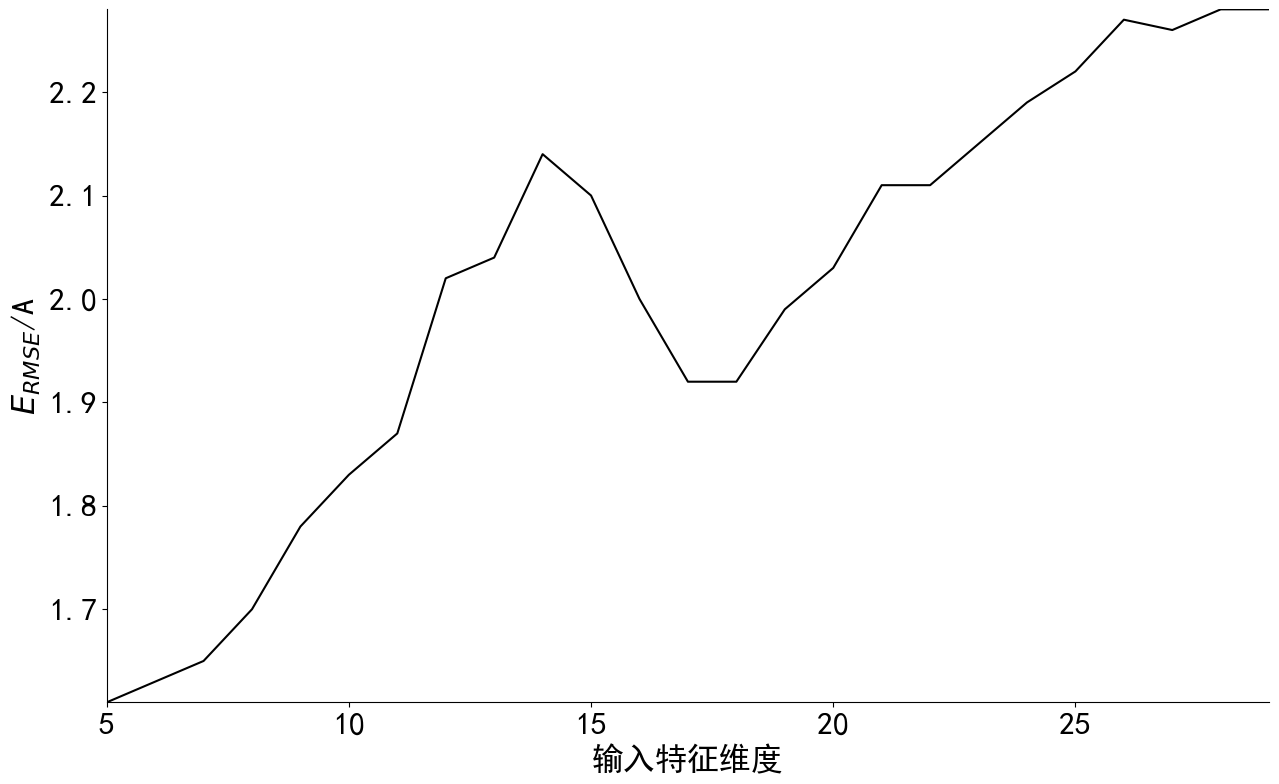
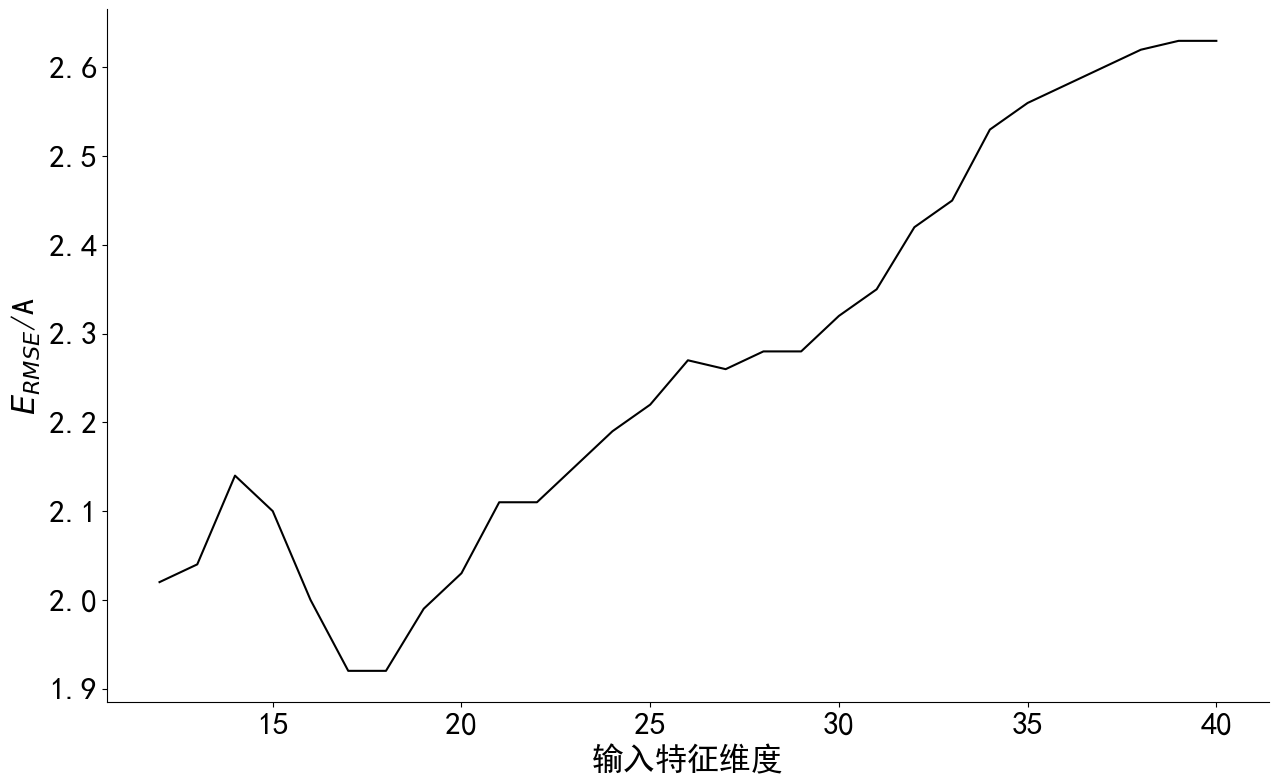
add picture and add algorithm

diff --git a/missingData.py b/missingData.py
@@ -87,7 +87,6 @@ def get_k_fill():
     data_complete = create_dataframe(complete_file, 'I')
 
     lost_file = r"file\2019.9.9-9.19(lost).csv"
-    data_lost = create_dataframe(lost_file, 'I')
 
     look_back = 13  # 14
     missing_ratio = [0.03, 0.06, 0.1, 0.2, 0.3]
@@ -97,24 +96,19 @@ def get_k_fill():
     data_test = data_complete.iloc[5500:6400]
     train_x, train_y = create_dataset(data_train.values, look_back)
 
-    df_mre = pd.DataFrame(index=range(3, 21))
-    df_rmse = pd.DataFrame(index=range(3, 21))
     rmse_all = []
     mre_all = []
     k_list = list(range(4, 21))
     for ratio in missing_ratio:
         rmse_list = []
         mre_list = []
-        data_fill_plt = None
         for n_neighbors in k_list:
             data_cut, r = create_miss_data(data_test, ratio, 10)
-            # print(r)
 
             # 数据分割，得到数据缺失部分
             # data_cut = data_lost.iloc[5500:6400]
             values = data_cut.values.flatten()
             lost_index = get_lost_index(data_cut)
-            # print(lost_index)
 
             # 利用自己的knn
             knn2 = defKnn.KNNClassifier(n_neighbors)
@@ -129,8 +123,6 @@ def get_k_fill():
                     sum += 1
                     look_back_x = np.array(data_fill.values[j-look_back:j])
                     look_back_x = look_back_x.reshape(1, -1)
-                    # print(look_back_x)
-                    # val = knn.predict(look_back_x)
                     val = knn2.predict(look_back_x)
                     data_fill.loc[j:j+1, 'y'] = val
                     mre += abs((val-data_test.iloc[j]['y'])/data_test.iloc[j]['y'])
@@ -138,65 +130,10 @@ def get_k_fill():
 
             mre_list.append(float(mre / sum))
             rmse_list.append(float(math.sqrt(rmse/sum)))
-            # k_list.append(n_neighbors)
-            if n_neighbors == 6:
-                data_fill_plt = data_fill.copy()
         if len(rmse_all) == 0:
             rmse_all = rmse_list
         else:
             rmse_all = [i + j for i, j in zip(rmse_all, rmse_list)]
-        # plt.figure(0, figsize=(18, 9))
-        # plt.rcParams['font.sans-serif'] = ['SimHei']  # 显示中文标签
-        # plt.rcParams['axes.spines.top'] = False  # 去掉顶部轴，必须放在plot之前
-        # plt.rcParams['axes.spines.right'] = False  # 去掉右部轴
-        # plt.plot([(str(d)).replace('T', ' ')[5:16] for d in list(data_test.index.values)], data_test['y'].values, "black", linewidth=4, linestyle='-', label='真实值')
-        # plt.plot([(str(d)).replace('T', ' ')[5:16] for d in list(data_fill_plt.index.values)], data_fill_plt['y'].values, "black", linewidth=2, linestyle='--', label='填补值')
-        # plt.gca().xaxis.set_major_locator(ticker.MultipleLocator(200))  # 设置刻度密度
-        # plt.tick_params(labelsize=60)
-        # plt.autoscale(enable=True, axis='x', tight=True)  # 去掉坐标边缘的留白
-        # plt.autoscale(enable=True, axis='y', tight=True)  # 去掉坐标边缘的留白
-        # ax = plt.gca()
-        # ax.spines['bottom'].set_linewidth(4)   # 设置底部坐标轴的粗细
-        # ax.spines['left'].set_linewidth(4)   # 设置左边坐标轴的粗细
-        # ax.tick_params(width=4)  # 设置刻度线的粗细（竖着的）
-        # plt.xticks(rotation=30)
-        # plt.xlabel("时刻", size=80)
-        # plt.ylabel("真实值/A,填补值/A", size=80)
-        # plt.legend(loc='upper center', prop={'size': 60}, bbox_to_anchor=(0.5, 1), ncol=2, frameon=False)  # ncol=n设为n列
-        # plt.savefig(r'D:\SJTU\机器学习\小论文\数据补全\图\自动化设备-图\fill'+'(ratio='+str(ratio)+').png',
-        #             format='png',
-        #             bbox_inches='tight',
-        #             transparent=True)
-        # plt.show()
-        # plt.close()
-
-        # plt.figure(1, figsize=(12, 6))
-        # plt.plot(data_cut.index, data_cut['y'], label='miss')
-        # plt.figure(2, figsize=(12, 6))
-        # plt.plot(data_test.index, data_test['y'], label='real')
-        # plt.legend()
-        # plt.show()
-
-        # print(mre_list)
-        # df_mre['ratio=' + str(ratio)] = mre_list
-        # df_rmse['ratio=' + str(ratio)] = rmse_list
-        # df_mre.to_csv(r'D:\SJTU\机器学习\小论文\数据补全\data_MRE.csv')
-        # df_rmse.to_csv(r'D:\SJTU\机器学习\小论文\数据补全\data_RMSE.csv')
-        #
-        # plt.figure(0, figsize=(16, 8))
-        # plt.rcParams['axes.spines.top'] = False  # 去掉顶部轴，必须放在plot之前
-        # plt.rcParams['axes.spines.right'] = False  # 去掉右部轴
-        # plt.tick_params(labelsize=23)
-        # plt.plot(np.array(k_list).astype(dtype=np.str), mre_list)
-        # plt.xlabel("K", size=23)
-        # plt.ylabel("MRE", size=23)
-        # # plt.legend()
-        # plt.savefig(r'D:\SJTU\机器学习\小论文\数据补全\图\缺失率='+str(ratio)+'_MRE.png',
-        #             format='png',
-        #             bbox_inches='tight',
-        #             transparent=True)
-        # plt.close()
-        # print('缺失率='+str(ratio)+'_MRE.png 已完成')
 
         #  以下为RMSE的图形展示
         plt.figure(figsize=(15, 9))
@@ -250,20 +187,16 @@ def get_lookback_fill():
     data_train = data_complete.iloc[:5500]
     data_test = data_complete.iloc[5500:6400]
 
-    df_mre = pd.DataFrame(index=range(3, 21))
-    df_rmse = pd.DataFrame(index=range(3, 21))
-    look_back_list = list(range(10, 45))
+    look_back_list = list(range(12, 41))
+    rmse_all = []
 
     for ratio in missing_ratio:
         rmse_list = []
         mre_list = []
-        k_list = []
-        data_fill_plt = None
         # 利用自己的knn
         for look_back in look_back_list:
             train_x, train_y = create_dataset(data_train.values, look_back)
             data_cut, r = create_miss_data(data_test, ratio, 10)
-            # print(r)
 
             # 数据分割，得到数据缺失部分
             # data_cut = data_lost.iloc[5500:6400]
@@ -283,8 +216,6 @@ def get_lookback_fill():
                     sum += 1
                     look_back_x = np.array(data_fill.values[j-look_back:j])
                     look_back_x = look_back_x.reshape(1, -1)
-                    # print(look_back_x)
-                    # val = knn.predict(look_back_x)
                     val = knn2.predict(look_back_x)
                     data_fill.loc[j:j+1, 'y'] = val
                     mre += abs((val-data_test.iloc[j]['y'])/data_test.iloc[j]['y'])
@@ -292,27 +223,17 @@ def get_lookback_fill():
 
             mre_list.append(float('%.2f' % (mre / sum)))
             rmse_list.append(float('%.2f' % math.sqrt(rmse/sum)))
-            data_fill_plt = data_fill.copy()
+
+        if len(rmse_all) == 0:
+            rmse_all = rmse_list
+        else:
+            rmse_all = [i + j for i, j in zip(rmse_all, rmse_list)]
 
         plt.figure(figsize=(15, 9))
         plt.plot(np.array(look_back_list), rmse_list, 'black')
+        plt.tick_params(labelsize=23)
         plt.xlabel("输入特征维度", size=23)
         plt.ylabel('${E_{RMSE}}$/A', size=23)
-        # plt.ylim(5.17, 5.19)  # 缺失率=0.03
-        # plt.ylim(1.98, 2.30)  # 缺失率=0.06
-        # plt.ylim(2.15, 2.30)  # 缺失率=0.1
-        # plt.ylim(5.17, 5.19)  # 缺失率=0.3
-        # plt.xticks(range(2, 20, 3))
-        ax = plt.gca()
-        # ax为两条坐标轴的实例
-        # ax.spines['bottom'].set_linewidth(2)   # 设置底部坐标轴的粗细
-        # ax.spines['left'].set_linewidth(2)   # 设置左边坐标轴的粗细
-        # ax.xaxis.set_major_locator(MultipleLocator(3))
-        # ax.yaxis.set_major_locator(MultipleLocator(0.05))  # 缺失率=0.03/0.1
-        # ax.yaxis.set_major_locator(MultipleLocator(0.1))  # 缺失率=0.06
-        # ax.yaxis.set_major_locator(MultipleLocator(0.25))  # 缺失率=0.3
-        # plt.show()
-        # fig = plt.gcf()
         plt.savefig(r'picture\(输入维度)缺失率='+str(ratio)+'_RMSE.png',
                     format='png',
                     bbox_inches='tight',
@@ -320,6 +241,15 @@ def get_lookback_fill():
         # plt.show()
         # plt.close()
         print('(输入维度)缺失率=' + str(ratio) + '_RMSE.png 已完成')
+    plt.figure(figsize=(15, 9))
+    plt.tick_params(labelsize=23)
+    plt.plot(np.array(look_back_list).astype(dtype=np.str), rmse_all, 'black')
+    plt.xlabel("K值", size=23)
+    plt.ylabel('${E_{RMSE}}$/A', size=23)
+    plt.savefig(r'picture\(输入维度)缺失率汇总_RMSE.png',
+                format='png',
+                bbox_inches='tight',
+                transparent=True)
 
 
 def get_value_fill():
@@ -329,7 +259,7 @@ def get_value_fill():
     lost_file = r"file\2019.9.9-9.19(lost).csv"
     data_lost = create_dataframe(lost_file, 'I')
 
-    look_back = 13  # 14
+    look_back = 20  # 14
     missing_ratio = [0.03, 0.06, 0.1, 0.2, 0.3]
     # missing_ratio = [0.03]
     # 分割训练数据
@@ -337,19 +267,15 @@ def get_value_fill():
     data_test = data_complete.iloc[5500:6400]
     train_x, train_y = create_dataset(data_train.values, look_back)
 
-    df_mre = pd.DataFrame(index=range(3, 21))
-    df_rmse = pd.DataFrame(index=range(3, 21))
-    value_list = list(np.arange(0.15, 0.6, 0.05))
+    rmse_all = []
+    value_list = list(np.arange(0.15, 0.61, 0.01))
 
     for ratio in missing_ratio:
         rmse_list = []
         mre_list = []
-        k_list = []
-        data_fill_plt = None
         # 利用自己的knn
         for value in value_list:
             data_cut, r = create_miss_data(data_test, ratio, 10)
-            # print(r)
 
             # 数据分割，得到数据缺失部分
             # data_cut = data_lost.iloc[5500:6400]
@@ -369,8 +295,6 @@ def get_value_fill():
                     sum += 1
                     look_back_x = np.array(data_fill.values[j-look_back:j])
                     look_back_x = look_back_x.reshape(1, -1)
-                    # print(look_back_x)
-                    # val = knn.predict(look_back_x)
                     val = knn2.predict(look_back_x)
                     data_fill.loc[j:j+1, 'y'] = val
                     mre += abs((val-data_test.iloc[j]['y'])/data_test.iloc[j]['y'])
@@ -378,7 +302,11 @@ def get_value_fill():
 
             mre_list.append(float('%.2f' % (mre / sum)))
             rmse_list.append(float('%.2f' % math.sqrt(rmse/sum)))
-            data_fill_plt = data_fill.copy()
+
+        if len(rmse_all) == 0:
+            rmse_all = rmse_list
+        else:
+            rmse_all = [i + j for i, j in zip(rmse_all, rmse_list)]
 
         plt.figure(figsize=(15, 9))
         plt.rcParams['font.sans-serif'] = ['SimHei']  # 显示中文标签
@@ -390,21 +318,7 @@ def get_value_fill():
         plt.plot(np.array(value_list), rmse_list, 'black')
         plt.xlabel("阈值", size=23)
         plt.ylabel('${E_{RMSE}}$/A', size=23)
-        # plt.ylim(5.17, 5.19)  # 缺失率=0.03
-        # plt.ylim(1.98, 2.30)  # 缺失率=0.06
-        # plt.ylim(2.15, 2.30)  # 缺失率=0.1
-        # plt.ylim(5.17, 5.19)  # 缺失率=0.3
-        # plt.xticks(range(2, 20, 3))
         ax = plt.gca()
-        # ax为两条坐标轴的实例
-        # ax.spines['bottom'].set_linewidth(2)   # 设置底部坐标轴的粗细
-        # ax.spines['left'].set_linewidth(2)   # 设置左边坐标轴的粗细
-        # ax.xaxis.set_major_locator(MultipleLocator(3))
-        # ax.yaxis.set_major_locator(MultipleLocator(0.05))  # 缺失率=0.03/0.1
-        # ax.yaxis.set_major_locator(MultipleLocator(0.1))  # 缺失率=0.06
-        # ax.yaxis.set_major_locator(MultipleLocator(0.25))  # 缺失率=0.3
-        # plt.show()
-        # fig = plt.gcf()
         plt.savefig(r'picture\(自适应)缺失率='+str(ratio)+'_RMSE.png',
                     format='png',
                     bbox_inches='tight',
@@ -412,6 +326,118 @@ def get_value_fill():
         # plt.show()
         # plt.close()
         print('(自适应)缺失率=' + str(ratio) + '_RMSE.png 已完成')
+    plt.figure(figsize=(15, 9))
+    plt.tick_params(labelsize=23)
+    plt.plot(np.array(value_list).astype(dtype=np.str), rmse_all, 'black')
+    plt.xlabel("K值", size=23)
+    plt.ylabel('${E_{RMSE}}$/A', size=23)
+    plt.savefig(r'picture\(自适应)缺失率汇总_RMSE.png',
+                format='png',
+                bbox_inches='tight',
+                transparent=True)
+
+
+def fill_missing_data():
+    complete_file = r"file\2019.9.9-9.19(completed).csv"
+    data_complete = create_dataframe(complete_file, 'I')
+
+    lost_file = r"file\2019.9.9-9.19(lost).csv"
+    data_lost = create_dataframe(lost_file, 'I')
+
+    look_back = 20  # 14
+    missing_ratio = [0.03, 0.06, 0.1, 0.2, 0.3]
+    # missing_ratio = [0.03]
+    # 分割训练数据
+    data_train = data_complete.iloc[:5500]
+    data_test = data_complete.iloc[5500:6400]
+    train_x, train_y = create_dataset(data_train.values, look_back)
+
+    df_mre = pd.DataFrame(index=range(3, 21))
+    df_rmse = pd.DataFrame(index=range(3, 21))
+    k_list = list(range(4, 21))
+    for ratio in missing_ratio:
+        rmse_list = []
+        mre_list = []
+        data_fill_plt = None
+
+        data_cut, r = create_miss_data(data_test, ratio, 10)
+
+        # 数据分割，得到数据缺失部分
+        # data_cut = data_lost.iloc[5500:6400]
+        values = data_cut.values.flatten()
+        lost_index = get_lost_index(data_cut)
+        # 利用自己的knn
+        knn2 = defKnn.KNNClassifier(6)
+        knn2.fit(train_x, train_y)
+
+        rmse = 0
+        mre = 0
+        sum = 0
+        data_fill = data_cut.copy()
+        for i in range(len(lost_index)):
+            for j in range(lost_index[i][0], lost_index[i][1]+1):
+                sum += 1
+                look_back_x = np.array(data_fill.values[j-look_back:j])
+                look_back_x = look_back_x.reshape(1, -1)
+                val = knn2.predict(look_back_x)
+                data_fill.loc[j:j+1, 'y'] = val
+                mre += abs((val-data_test.iloc[j]['y'])/data_test.iloc[j]['y'])
+                rmse += pow(val-data_test.iloc[j]['y'], 2)
+
+        mre_list.append(float(mre / sum))
+        rmse_list.append(float(math.sqrt(rmse/sum)))
+
+        plt.figure(figsize=(15, 9))
+        plt.plot([(str(d)).replace('T', ' ')[5:16] for d in list(data_test.index.values)],
+                 data_test['y'].values, "black", linewidth=4, linestyle='-', label='真实值')
+        plt.plot([(str(d)).replace('T', ' ')[5:16] for d in list(data_fill_plt.index.values)],
+                 data_fill_plt['y'].values, "black", linewidth=2, linestyle='--', label='填补值')
+        plt.gca().xaxis.set_major_locator(ticker.MultipleLocator(200))  # 设置刻度密度
+        plt.tick_params(labelsize=23)
+        plt.autoscale(enable=True, axis='x', tight=True)  # 去掉坐标边缘的留白
+        plt.autoscale(enable=True, axis='y', tight=True)  # 去掉坐标边缘的留白
+        # ax = plt.gca()
+        # ax.spines['bottom'].set_linewidth(4)   # 设置底部坐标轴的粗细
+        # ax.spines['left'].set_linewidth(4)   # 设置左边坐标轴的粗细
+        # ax.tick_params(width=4)  # 设置刻度线的粗细（竖着的）
+        plt.xticks(rotation=30)
+        plt.xlabel("时刻", size=23)
+        plt.ylabel("真实值/A,填补值/A", size=23)
+        plt.legend(loc='upper center', prop={'size': 23}, bbox_to_anchor=(0.5, 1), ncol=2, frameon=False)  # ncol=n设为n列
+        plt.savefig(r'picture\fill'+'(ratio='+str(ratio)+').png',
+                    format='png',
+                    bbox_inches='tight',
+                    transparent=True)
+        plt.show()
+        plt.close()
+
+        plt.figure(1, figsize=(12, 6))
+        plt.plot(data_cut.index, data_cut['y'], label='miss')
+        plt.figure(2, figsize=(12, 6))
+        plt.plot(data_test.index, data_test['y'], label='real')
+        plt.legend()
+        plt.show()
+
+        # print(mre_list)
+        # df_mre['ratio=' + str(ratio)] = mre_list
+        # df_rmse['ratio=' + str(ratio)] = rmse_list
+        # df_mre.to_csv(r'D:\SJTU\机器学习\小论文\数据补全\data_MRE.csv')
+        # df_rmse.to_csv(r'D:\SJTU\机器学习\小论文\数据补全\data_RMSE.csv')
+        #
+        # plt.figure(0, figsize=(16, 8))
+        # plt.rcParams['axes.spines.top'] = False  # 去掉顶部轴，必须放在plot之前
+        # plt.rcParams['axes.spines.right'] = False  # 去掉右部轴
+        # plt.tick_params(labelsize=23)
+        # plt.plot(np.array(k_list).astype(dtype=np.str), mre_list)
+        # plt.xlabel("K", size=23)
+        # plt.ylabel("MRE", size=23)
+        # # plt.legend()
+        # plt.savefig(r'D:\SJTU\机器学习\小论文\数据补全\图\缺失率='+str(ratio)+'_MRE.png',
+        #             format='png',
+        #             bbox_inches='tight',
+        #             transparent=True)
+        # plt.close()
+        # print('缺失率='+str(ratio)+'_MRE.png 已完成')
 
 
 if __name__ == "__main__":
@@ -422,6 +448,6 @@ if __name__ == "__main__":
     plt.autoscale(enable=True, axis='x', tight=True)  # 去掉坐标边缘的留白
     plt.autoscale(enable=True, axis='y', tight=True)  # 去掉坐标边缘的留白
 
-    get_k_fill()
-    # get_value_fill()
+    # get_k_fill()
     # get_lookback_fill()
+    get_value_fill()
